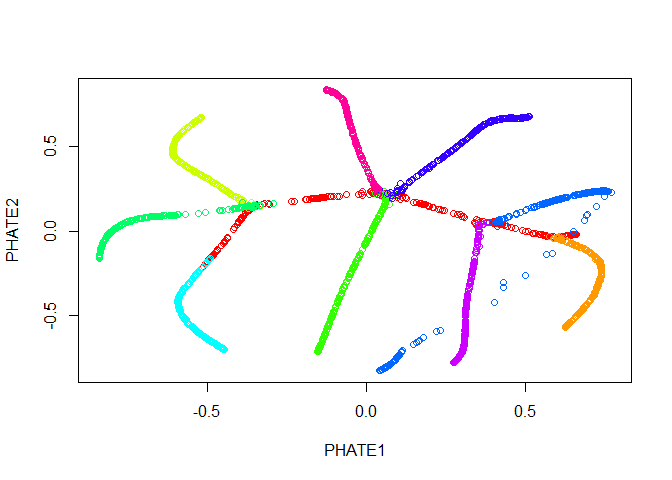
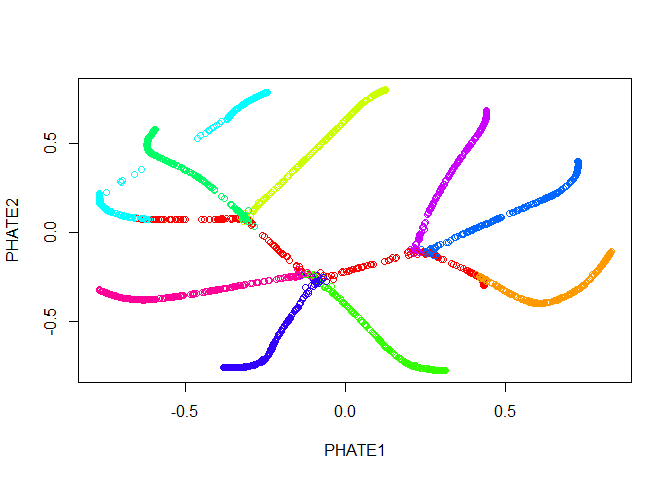
fix knee point, update doc

diff --git a/README.md b/README.md
@@ -16,14 +16,42 @@ For our Python and Matlab implementations, please see
 
 ## Installation
 
-You can install phater from GitHub with:
+#### Installation with `devtools`
+
+The R version of PHATE can be installed directly from R with `devtools`:
 
 ``` r
 if (!suppressWarnings(require(devtools))) install.packages("devtools")
 devtools::install_github("KrishnaswamyLab/phater")
 ```
 
-## Example
+#### Installation from source
+
+1.  The R version of PHATE can be accessed
+    [here](https://github.com/KrishnaswamyLab/phater), or by using:
+
+<!-- end list -->
+
+``` bash
+git clone --recursive git://github.com/SmitaKrishnaswamy/PHATE.git
+cd PHATE/phater
+R CMD INSTALL
+```
+
+2.  If the `phater` folder is empty, you have may forgotten to use the
+    `--recursive` option for `git clone`. You can rectify this by using:
+
+<!-- end list -->
+
+``` bash
+$ cd PHATE
+$ git submodule init
+$ git submodule update
+$ cd phater
+$ R CMD INSTALL
+```
+
+## Tutorial
 
 This is a basic example running `phate` on a highly branched example
 dataset that is included with the package. First, let’s examine it with
@@ -31,6 +59,7 @@ PCA.
 
 ``` r
 library(phater)
+#> Loading required package: ggplot2
 data(tree.data)
 plot(prcomp(tree.data$data)$x, col=tree.data$branches)
 ```
@@ -44,17 +73,17 @@ default parameters.
 # runs phate
 tree.phate <- phate(tree.data$data)
 #> Calculating kernel...
-#> Calculated kernel in 2.6 secs.
+#> Calculated kernel in 2.4 secs.
 #> Calculating diffusion operator...
-#> Calculated diffusion operator in 9.5 secs.
+#> Calculated diffusion operator in 7.1 secs.
 #> Calculating diffusion potential...
-#> Calculated diffusion potential in 13.1 secs.
+#> Calculated diffusion potential in 7.2 secs.
 #> Embedding metric MDS...
-#> Calculated MDS in 20.6 secs.
-#> Embedded PHATE in 45.8 secs.
+#> Calculated MDS in 38.3 secs.
+#> Embedded PHATE in 55 secs.
 summary(tree.phate)
 #> PHATE embedding
-#> k = 5, alpha = NA, t = 102
+#> k = 5, alpha = NA, t = 13
 #> Data: (3000, 100)
 #> Embedding: (3000, 2)
 ```
@@ -82,15 +111,13 @@ diffusion operator.
 ``` r
 # runs phate with different parameters
 tree.phate <- phate(tree.data$data, potential.method='sqrt', t=90, init=tree.phate)
-#> Warning in if (class(init) != "phate") {: the condition has length > 1 and
-#> only the first element will be used
 #> Using precomputed kernel...
 #> Using precomputed diffusion operator...
 #> Calculating diffusion potential...
-#> Calculated diffusion potential in 8.1 secs.
+#> Calculated diffusion potential in 6.8 secs.
 #> Embedding metric MDS...
-#> Calculated MDS in 1.4 mins.
-#> Embedded PHATE in 1.6 mins.
+#> Calculated MDS in 43.3 secs.
+#> Embedded PHATE in 50.1 secs.
 # plot embedding
 palette(rainbow(10))
 plot(tree.phate, col = tree.data$branches)
@@ -102,8 +129,7 @@ We can also pass the PHATE object directly to `ggplot`, if it is
 installed.
 
 ``` r
-if (!suppressWarnings(require(ggplot2))) install.packages("ggplot2")
-#> Loading required package: ggplot2
+library(ggplot2)
 ggplot(tree.phate, aes(x=PHATE1, y=PHATE2, color=tree.data$branches)) +
   geom_point()
 ```
